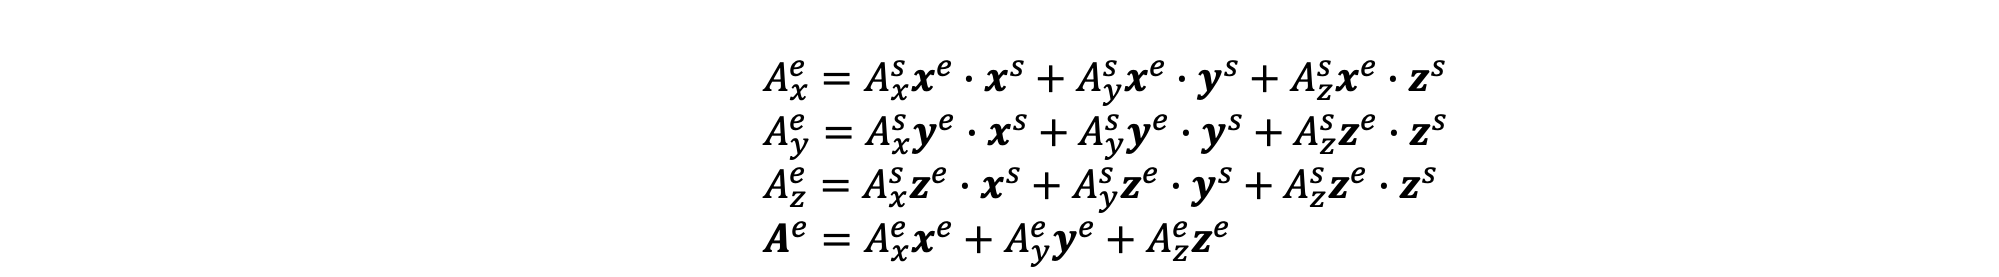
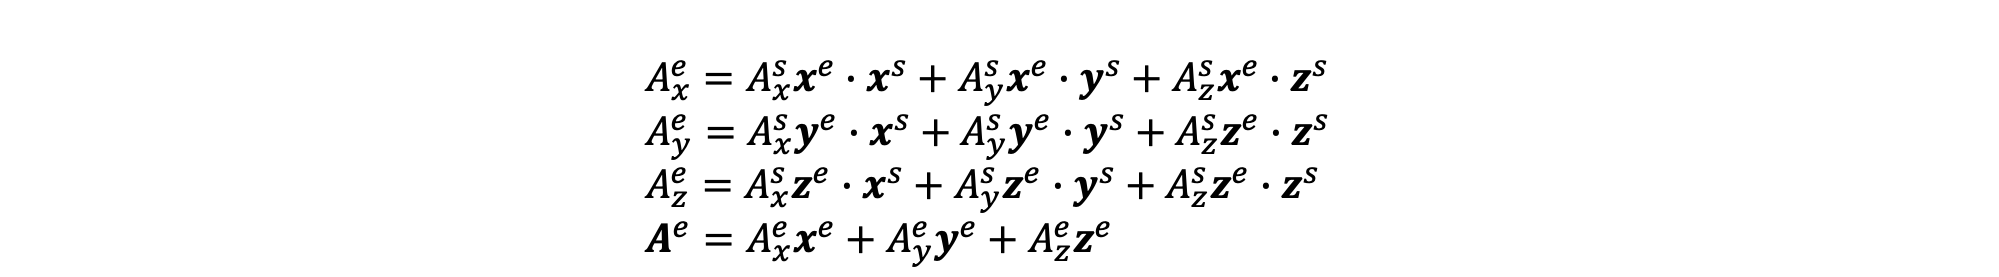
README update

diff --git a/README.md b/README.md
@@ -66,10 +66,11 @@ We now have to transform _**A**_<sup>s</sup> to _**A**_<sup>e</sup> (coordinate 
 From the figure, we see that y and z are shifted by the tilt of the earth. Luckily, we can define the new coordinate system where the tilt only occurs in the yz plane such that x is preserved! The basis vectors for earth's coordinate system are as follows:
 ![Figure 6](Figures/figure6.png)
 
-To transform _**A**_<sup>s</sup>, we use the following formula, which can be found in the MIT lecture notes I linked above.
+To transform _**A**_<sup>s</sup>, we use the following formulas, which can be found in the MIT lecture notes I linked above.
 ![Figure 7](Figures/figure7.png)
 
 After wading through the tedious algebra, we get the following for _**A**_<sup>e</sup>:
+![Figure 8](Figures/figure8.png)
 
 
 
